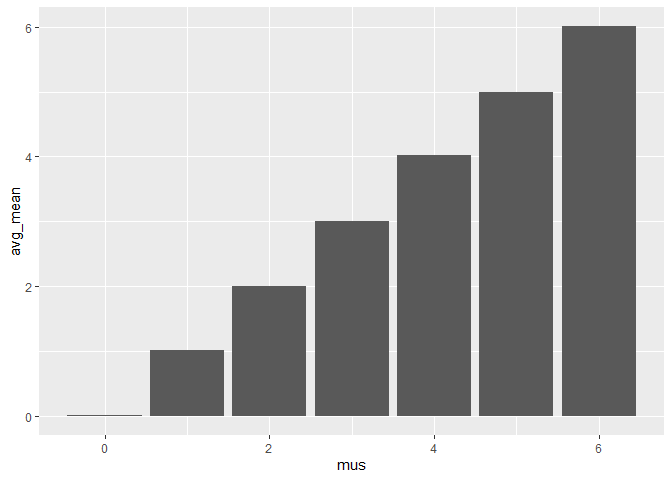
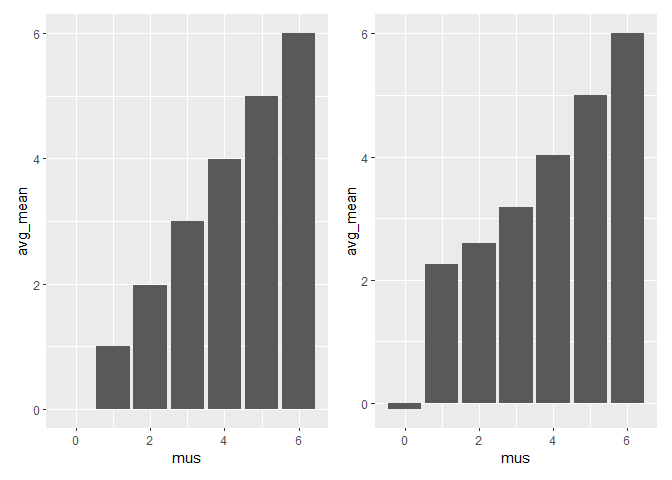
proofing document

diff --git a/hw-5.md b/hw-5.md
@@ -109,7 +109,7 @@ The experimental group’s scores tend to increase from the beginning to
 the end of the study, while the control group’s scores tend to stay the
 same of decrease.
 
-## Problem 2
+## Problem 3
 
 ``` r
 sim_mean_p = function(mu) {
@@ -129,7 +129,7 @@ sim_mean_p(0)
     ## # A tibble: 1 x 3
     ##   estimate p.value reject
     ##      <dbl>   <dbl> <lgl> 
-    ## 1    0.626   0.481 FALSE
+    ## 1   -0.466   0.632 FALSE
 
 ``` r
 sim_results = 
@@ -156,7 +156,7 @@ sim_results %>%
 ![](hw-5_files/figure-gfm/unnamed-chunk-7-1.png)<!-- -->
 
 ``` r
-sim_results %>% 
+avg = sim_results %>% 
   group_by(mus) %>%
   summarise(avg_mean = mean(estimate)) %>%
   ggplot(aes(x= mus, y= avg_mean)) +
@@ -164,6 +164,21 @@ sim_results %>%
 ```
 
     ## `summarise()` ungrouping output (override with `.groups` argument)
+
+``` r
+avg_rej = sim_results %>% 
+  filter(reject == TRUE) %>%
+  group_by(mus) %>%
+  summarise(avg_mean = mean(estimate)) %>%
+  ggplot(aes(x= mus, y= avg_mean)) +
+  geom_col()
+```
+
+    ## `summarise()` ungrouping output (override with `.groups` argument)
+
+``` r
+avg + avg_rej
+```
 
 ![](hw-5_files/figure-gfm/unnamed-chunk-7-2.png)<!-- -->
 
@@ -182,4 +197,7 @@ rejected = sim_results %>%
 all_data + rejected
 ```
 
-![](hw-5_files/figure-gfm/unnamed-chunk-7-3.png)<!-- -->
+![](hw-5_files/figure-gfm/unnamed-chunk-7-3.png)<!-- --> For low mus,
+the mean estimate of the rejected samples are higher than the mean from
+all samples. This is because the higher means are more different than 0
+and more likely to be rejected.
